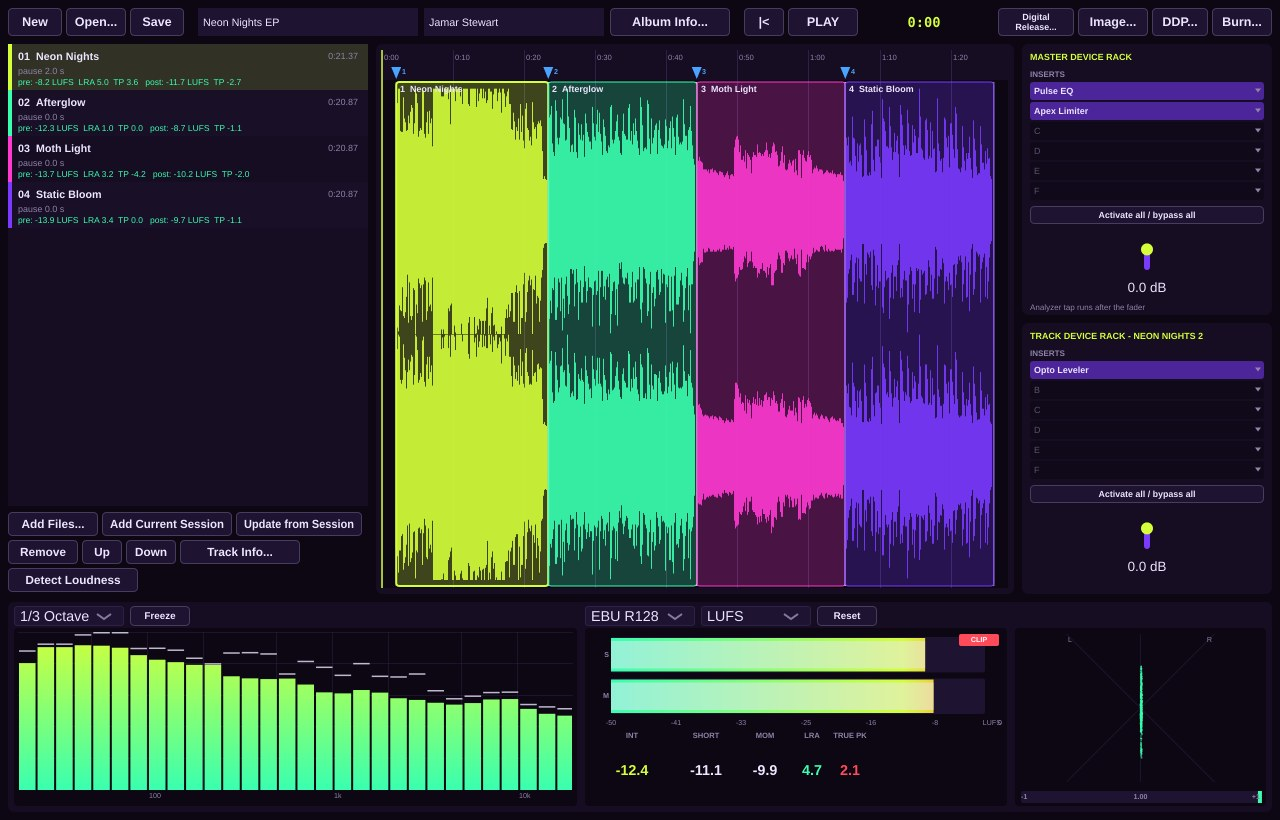
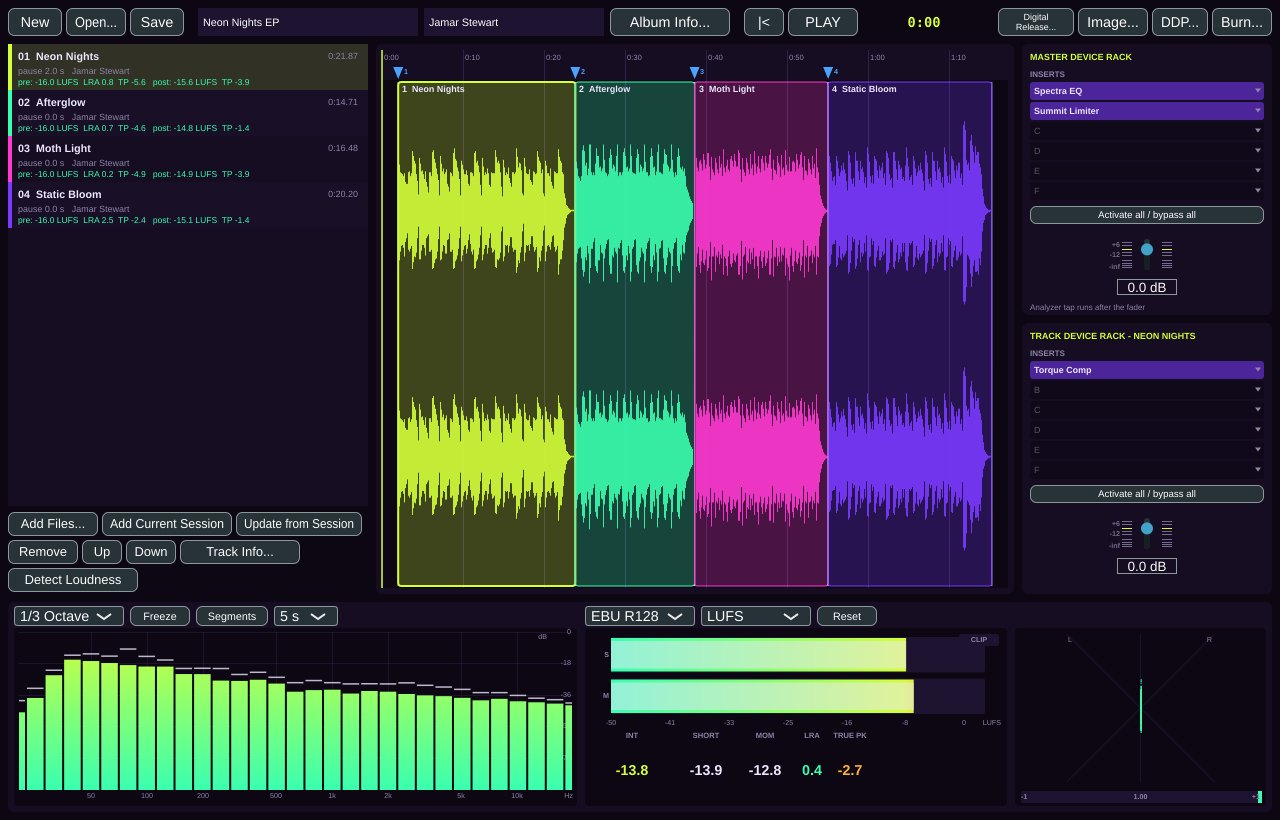
Site v20: Mastering screenshot from a real in-app EP; 1.14 Payhip covers
Claude-Session: https://claude.ai/code/session_01HxcTeNVN1rh1LXLeRBDN2J

diff --git a/Source/SelfTest.h b/Source/SelfTest.h
@@ -340,6 +340,72 @@ inline int runSelfTest()
             rk.setGraphVisible (true);
             save (snap (rk, 1240, 770), "rack");
         }
+
+        // 3. The Mastering window: a four-song EP made in the app (rack beats + synth chords), bounced, sequenced,
+        //    loudness-detected, with a Summit Limiter on the master; the meters fed by the record playing through the
+        //    master analyzer tap exactly as playback would.
+        {
+            struct Song { const char* title; int bpm; const char* kit; const char* genre; const char* synth; const char* chord; };
+            const Song songs[] = { { "Neon Nights", 92, "Boom Bap", "boom bap", "Mothsynth 2", "C4+D#4+G4+A#4" },
+                                   { "Afterglow", 140, "Trap", "trap", "Venom", "F4+G#4+C5" },
+                                   { "Moth Light", 124, "House", "house", "Mirrorwing", "A3+C4+E4+G4" },
+                                   { "Static Bloom", 100, "Lo-Fi", "lofi", "Hexwing", "D4+F4+A4+C5" } };
+            juce::StringArray files;
+            int n = 0;
+            for (auto& sg : songs)
+            {
+                call ("new_session", juce::String ("{\"name\":\"") + sg.title + "\"}");
+                call ("set_tempo", "{\"bpm\":" + juce::String (sg.bpm) + "}");
+                call ("rack", juce::String ("{\"action\":\"add\",\"type\":\"kit\",\"what\":\"") + sg.kit + "\"}");
+                call ("rack", juce::String ("{\"action\":\"starter\",\"genre\":\"") + sg.genre + "\"}");
+                call ("rack", juce::String ("{\"action\":\"add\",\"type\":\"instrument\",\"what\":\"") + sg.synth + "\",\"name\":\"Chords\"}");
+                juce::String notes;
+                for (auto& pitch : juce::StringArray::fromTokens (sg.chord, "+", ""))
+                    notes << (notes.isEmpty() ? "" : ",") << "{\"pitch\":\"" << pitch << "\",\"start_beat\":0,\"length_beats\":3.5,\"velocity\":90}";
+                call ("rack", "{\"action\":\"notes\",\"channel\":\"Chords\",\"replace\":true,\"notes\":[" + notes + "]}");
+                call ("pattern", R"({"action":"place","pattern":1,"bar":1,"repeats":8})");
+                auto f = dir.getChildFile ("ep_" + juce::String (++n) + ".wav"); f.deleteFile();
+                call ("bounce", "{\"path\":\"" + f.getFullPathName() + "\",\"start_bar\":1,\"end_bar\":9,\"tail_seconds\":1,\"normalize_lufs\":-16}");
+                if (f.existsAsFile()) files.add (f.getFullPathName());
+            }
+            call ("new_session", R"({"name":"Neon Nights EP session"})");
+            MasteringProject mp (*session);
+            tools.ui.mastering = [&] { return &mp; };
+            call ("mastering_new", R"({"name":"Neon Nights EP"})");
+            call ("mastering_set_album", R"({"album":"Neon Nights EP","artist":"Jamar Stewart","genre":"Hip-Hop","year":"2026"})");
+            juce::String paths; for (auto& f : files) paths << (paths.isEmpty() ? "" : ",") << "\"" << f << "\"";
+            call ("mastering_add_tracks", "{\"paths\":[" + paths + "]}");
+            for (int i = 0; i < 4; ++i)
+                call ("mastering_set_track", "{\"track\":" + juce::String (i + 1) + ",\"title\":\"" + songs[i].title + "\"" + (i > 0 ? ",\"pause_seconds\":0" : "") + "}");
+            call ("mastering_insert", R"({"target":"master","plugin":"Spectra EQ","preset":"Master | Gentle Polish"})");
+            call ("mastering_insert", R"({"target":"master","plugin":"Summit Limiter","preset":"Master | Streaming Ready"})");
+            call ("mastering_insert", R"({"target":1,"plugin":"Torque Comp"})");
+            for (int i = 1; i <= 4; ++i) call ("mastering_detect_loudness", "{\"track\":" + juce::String (i) + "}");
+            MasteringContent mc (mp);
+            mc.setSize (1280, 820);
+            for (int w = 0; w < 30; ++w)   // painting starts the waveform thumbnails; they build in the background
+            { mc.createComponentSnapshot (mc.getLocalBounds(), true, 0.25f); juce::MessageManager::getInstance()->runDispatchLoopUntil (200); }
+            if (mp.tap != nullptr && files.size() > 1)
+            {   // play song 2 through the analyzer tap for 6 seconds, as the transport would
+                juce::AudioFormatManager fm; fm.registerBasicFormats();
+                if (auto rd = std::unique_ptr<juce::AudioFormatReader> (fm.createReaderFor (juce::File (files[1]))))
+                {
+                    mp.tap->baseClassInitialise ({ te::TimePosition(), rd->sampleRate, 512 });
+                    juce::AudioBuffer<float> buf (2, 512); te::MidiMessageArray midi;
+                    const juce::int64 start = (juce::int64) (rd->sampleRate * 4.0), len = (juce::int64) (rd->sampleRate * 6.0);
+                    for (juce::int64 pos = start; pos + 512 <= start + len && pos + 512 <= rd->lengthInSamples; pos += 512)
+                    {
+                        rd->read (&buf, 0, 512, pos, true, true);
+                        buf.applyGain (juce::Decibels::decibelsToGain (2.0f));   // about where the limiter leaves it
+                        te::PluginRenderContext fc (&buf, 0, 512, &midi, 0.0, te::TimeRange (te::TimePosition::fromSeconds ((double) pos / rd->sampleRate), te::TimePosition::fromSeconds ((double) (pos + 512) / rd->sampleRate)), true, false, true, false);
+                        mp.tap->applyToBuffer (fc);
+                        if ((pos / 512) % 24 == 0) juce::MessageManager::getInstance()->runDispatchLoopUntil (5);
+                    }
+                }
+            }
+            save (snap (mc, 1280, 820), "mastering");
+            tools.ui.mastering = nullptr;
+        }
         scannerOwner.reset(); session.reset(); engine.reset();
         return 0;
     }

diff --git a/scripts/make_covers.py b/scripts/make_covers.py
@@ -10,11 +10,11 @@ os.makedirs(OUT, exist_ok=True)
 
 C = [  # code, title, line, price, list, image, accent
     ('DEMO', 'Squelchmoth Demo', 'Free forever · Mac and Windows · 16 tracks · 28 instruments and effects · five kits', 'FREE', '', 'img/shots/edit.jpg', '#3affb0'),
-    ('CORE', 'Squelchmoth', 'The full program for Mac and Windows · unlimited tracks · 60 Signature plug-ins + 186 AirWindows · Mastering · Cut Lab', '$189.99', '$299.99', 'img/shots/edit.jpg', '#d4ff3a'),
-    ('COMPLETE', 'Squelchmoth Complete', 'The program and all six add-on packs · 123 Signature plug-ins · 5,300+ presets · 27 kits · 51 loops', '$399.99', '$699.99', 'img/shots/mastering.jpg', '#b06bff'),
-    ('VOCAL', 'Vocal Suite', '17 vocal plug-ins · Moth Tune · Hive Choir · Vox Moth · Talk Wing · Clean Room · and more', '$149', '$249', 'img/shots/voxmoth.jpg', '#19e3ff'),
-    ('COLOR', 'Color & Space', '16 plug-ins · Cinder · Wingbeat Echo · Foil Plate · Hive Rack · and more · 3,000+ presets', '$179', '$299', 'img/shots/cinder.jpg', '#ff6a3a'),
-    ('MASTER', 'Mastering Suite', 'The Apex series · Pulse EQ · Opto Leveler', '$99', '$149', 'img/shots/apexlim.jpg', '#ff5a3a'),
+    ('CORE', 'Squelchmoth', 'The full program for Mac and Windows · unlimited tracks · 64 Signature plug-ins + 186 AirWindows · Mastering · Cut Lab', '$189.99', '$299.99', 'img/shots/edit.jpg', '#d4ff3a'),
+    ('COMPLETE', 'Squelchmoth Complete', 'The program and all six add-on packs · 137 Signature plug-ins · 5,700+ presets · 27 kits · 51 loops', '$399.99', '$699.99', 'img/shots/mastering.jpg', '#b06bff'),
+    ('VOCAL', 'Vocal Suite', '18 vocal plug-ins · Moth Tune · Sibyl De-Ess · Hive Choir · Vox Moth · Talk Wing · Clean Room · and more', '$149', '$249', 'img/shots/voxmoth.jpg', '#19e3ff'),
+    ('COLOR', 'Color & Space', '20 plug-ins · Cinder · Atrium Verb · Kiln · Spindle Delay · Fissure Filter · and more · 3,000+ presets', '$179', '$299', 'img/shots/cinder.jpg', '#ff6a3a'),
+    ('MASTER', 'Mastering Suite', '12 plug-ins · Spectra EQ · Torque Comp · Summit Limiter · Apex Multiband 2 · Portcullis Gate · the Apex series', '$99', '$149', 'img/shots/spectraeq.jpg', '#ff5a3a'),
     ('INSTR', 'Instrument Collection', 'Hexwing · Toxin FM · Lantern · Lantern Exo · Pollen · Blossom 2 · and four more', '$99', '$149', 'img/shots/hexwing.jpg', '#3ad7ff'),
     ('BEAT', 'Beat Lab Expansion', 'Carapace · Live Drum Synth · Mandible · ten more kits · 51 genre loops', '$49', '$79', 'img/shots/carapace.jpg', '#ff9a3a'),
     ('CREATIVE', 'Creative FX', 'Time Weaver · Larva Filter · Oil Can Delay · Bucket Brigade · and three more', '$49', '$79', 'img/shots/timeweaver.jpg', '#3affb0'),
